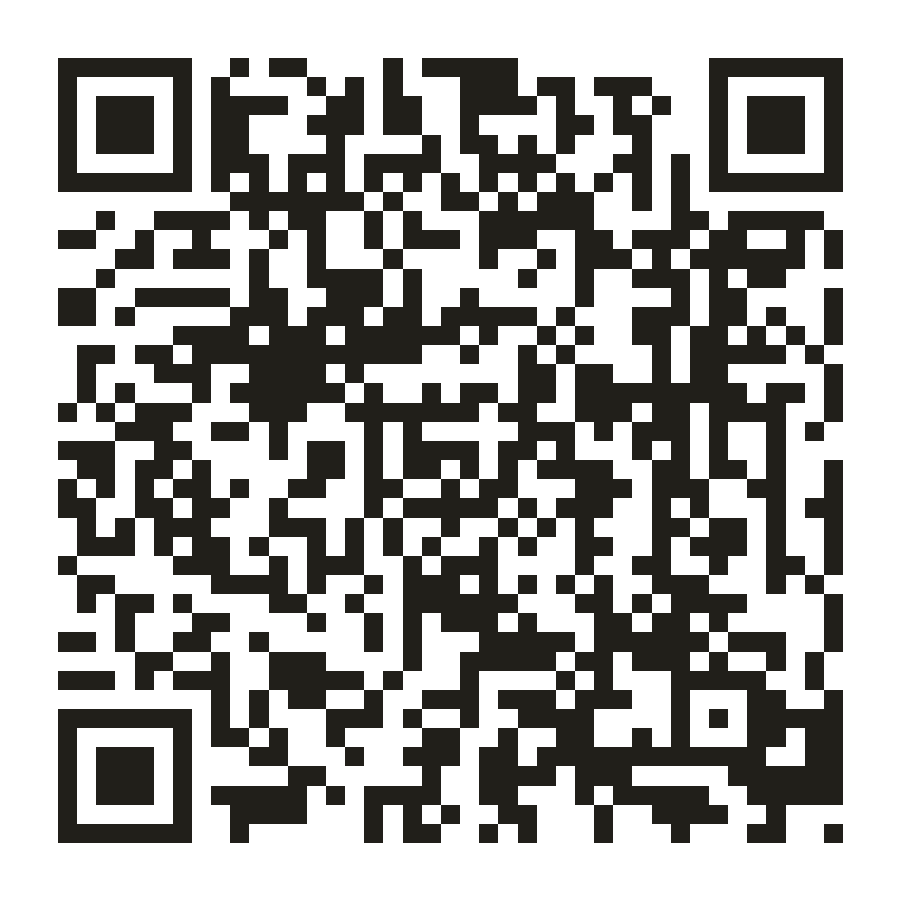
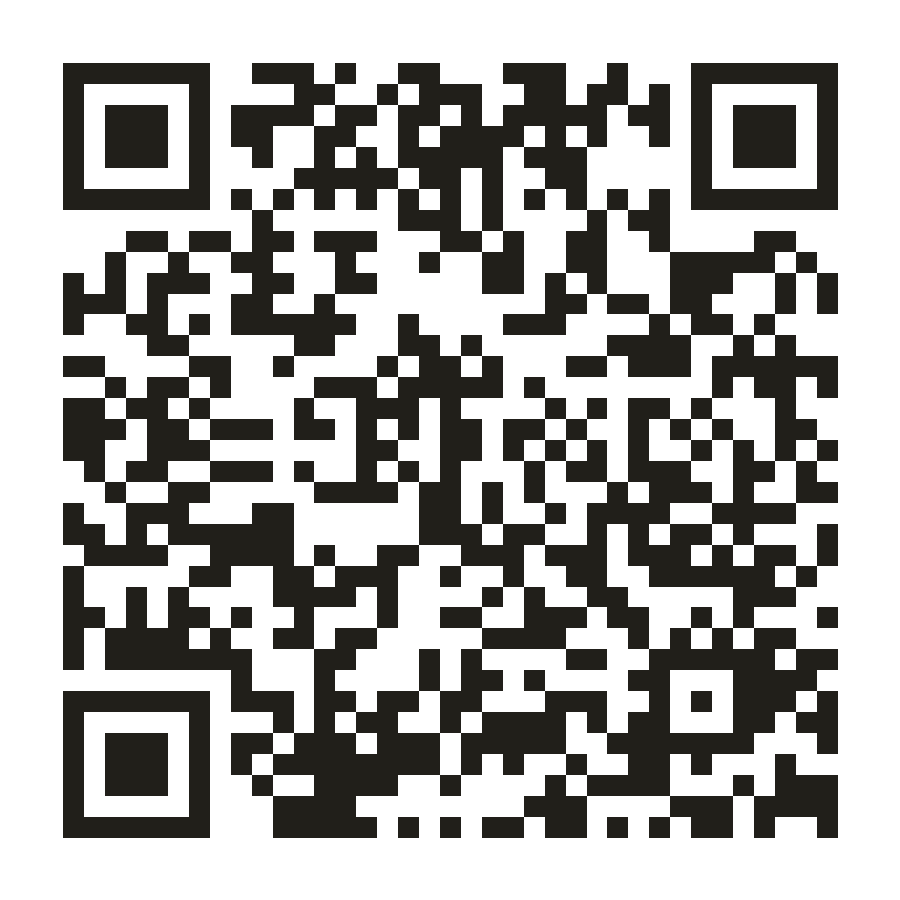
Point share QR to GitHub Pages URL

diff --git a/src/pages/SharePage.tsx b/src/pages/SharePage.tsx
@@ -17,13 +17,14 @@ export default function SharePage() {
     setCopied(true)
     window.setTimeout(() => setCopied(false), 1600)
   }
-  return <PageShell eyebrow="H5 分享" title="手机扫码进入殷契拾文" lead="使用手机相机扫描二维码，打开响应式 H5 首页。临时公网地址在隧道关闭后失效。">
+  const isTemporaryUrl = /\.trycloudflare\.com\b/i.test(url)
+  return <PageShell eyebrow="H5 分享" title="手机扫码进入殷契拾文" lead="使用手机相机扫描二维码，打开响应式 H5 首页。">
     <Panel className="mx-auto max-w-xl p-5 sm:p-8">
       <div className="flex items-center gap-2 text-sm font-medium text-ink"><QrCode className="h-5 w-5 text-bronze" /> 手机扫码访问</div>
       <div className="mx-auto mt-6 flex max-w-[320px] items-center justify-center rounded-xl border border-line bg-white p-4"><img src={`${import.meta.env.BASE_URL || './'}qr/yinqi-h5.svg`} alt="殷契拾文 H5 二维码" className="h-auto w-full" /></div>
       <p className="mt-5 break-all rounded-lg bg-bone px-3 py-2 text-xs leading-5 text-muted">{url || '正在读取分享地址…'}</p>
       <div className="mt-4 grid gap-2 sm:grid-cols-3"><button type="button" className="btn-primary min-h-11 !px-3 text-xs" onClick={copyUrl}><Copy className="h-4 w-4" />{copied ? '已复制' : '复制链接'}</button><a className="btn-ghost min-h-11 !px-3 text-xs" href={`${import.meta.env.BASE_URL || './'}qr/yinqi-h5.png`} download="yinqi-h5.png"><Download className="h-4 w-4" />下载 PNG</a>{url ? <a className="btn-ghost min-h-11 !px-3 text-xs" href={url} target="_blank" rel="noreferrer"><ExternalLink className="h-4 w-4" />打开 H5</a> : null}</div>
-      <p className="mt-5 text-xs leading-5 text-muted">手机需要联网。Cloudflare Quick Tunnel 关闭后，本二维码对应的临时地址将不可访问。</p>
+      <p className="mt-5 text-xs leading-5 text-muted">手机需要联网。{isTemporaryUrl ? 'Cloudflare Quick Tunnel 关闭后，本二维码对应的临时地址将不可访问。' : '二维码使用固定的 GitHub Pages 地址。'}</p>
     </Panel>
   </PageShell>
 }
